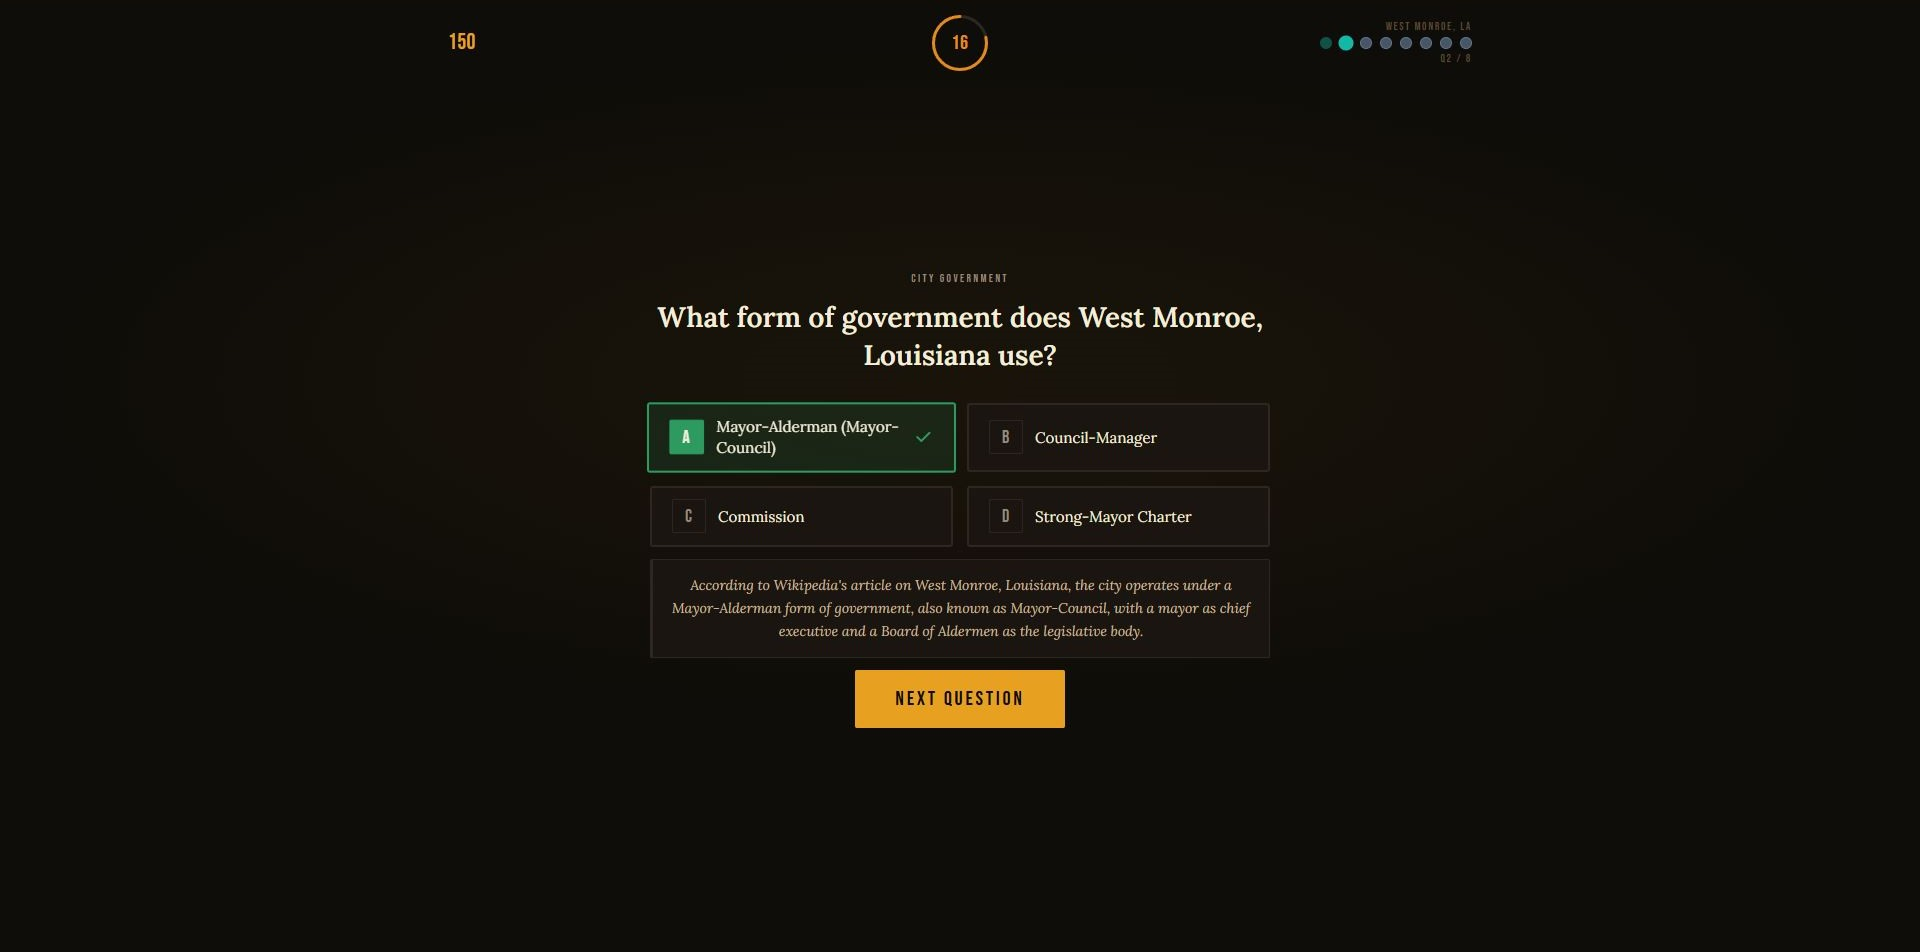
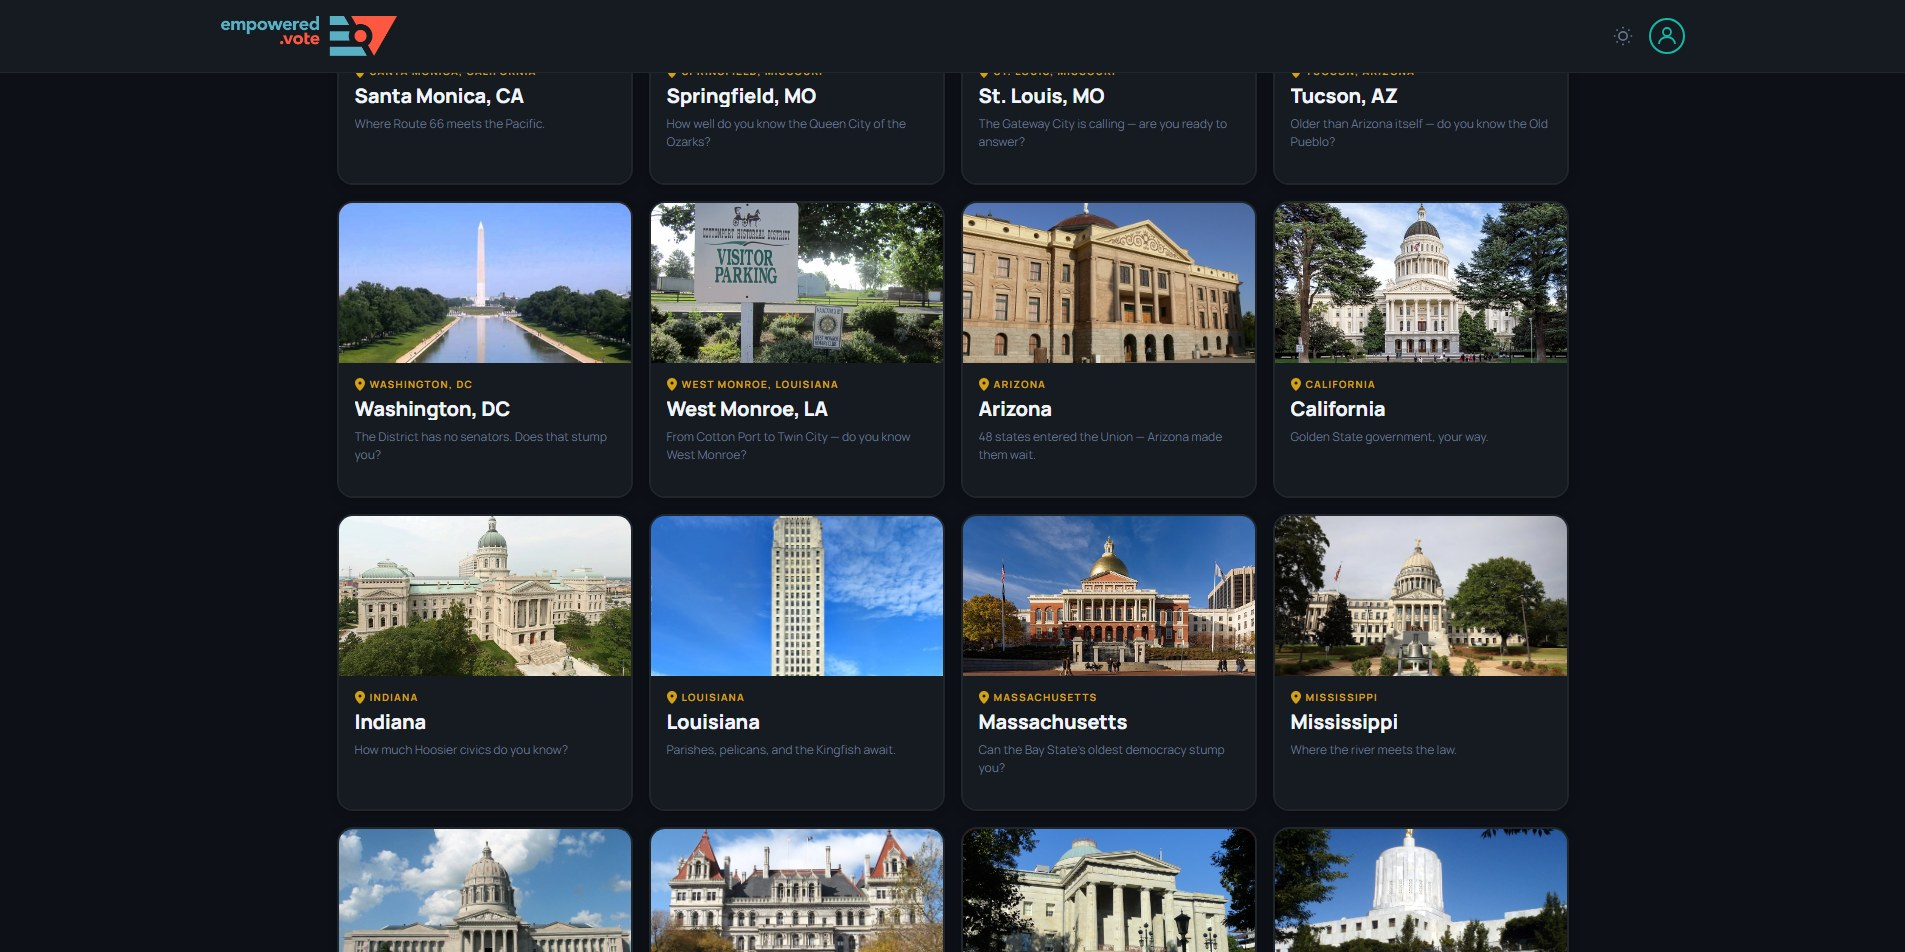
feat(landing): refresh Civic Trivia screenshots for light and dark
Recapture ctc-{1,2,3} from the live app at 1905x952 in both themes
(landing, collections grid, in-game question). Point the trivia preview
at the light set in light mode and the dark set in dark mode instead of
reusing the outdated dark images for both.

diff --git a/index.html b/index.html
@@ -1217,7 +1217,7 @@
                     dark:  ['screenshots/treasury-1-d.jpg', 'screenshots/treasury-2-d.jpg', 'screenshots/treasury-3-d.jpg']
                 },
                 trivia: {
-                    light: ['screenshots/ctc-1-d.jpg', 'screenshots/ctc-2-d.jpg', 'screenshots/ctc-3-d.jpg'],
+                    light: ['screenshots/ctc-1-l.jpg', 'screenshots/ctc-2-l.jpg', 'screenshots/ctc-3-l.jpg'],
                     dark:  ['screenshots/ctc-1-d.jpg', 'screenshots/ctc-2-d.jpg', 'screenshots/ctc-3-d.jpg']
                 }
             };